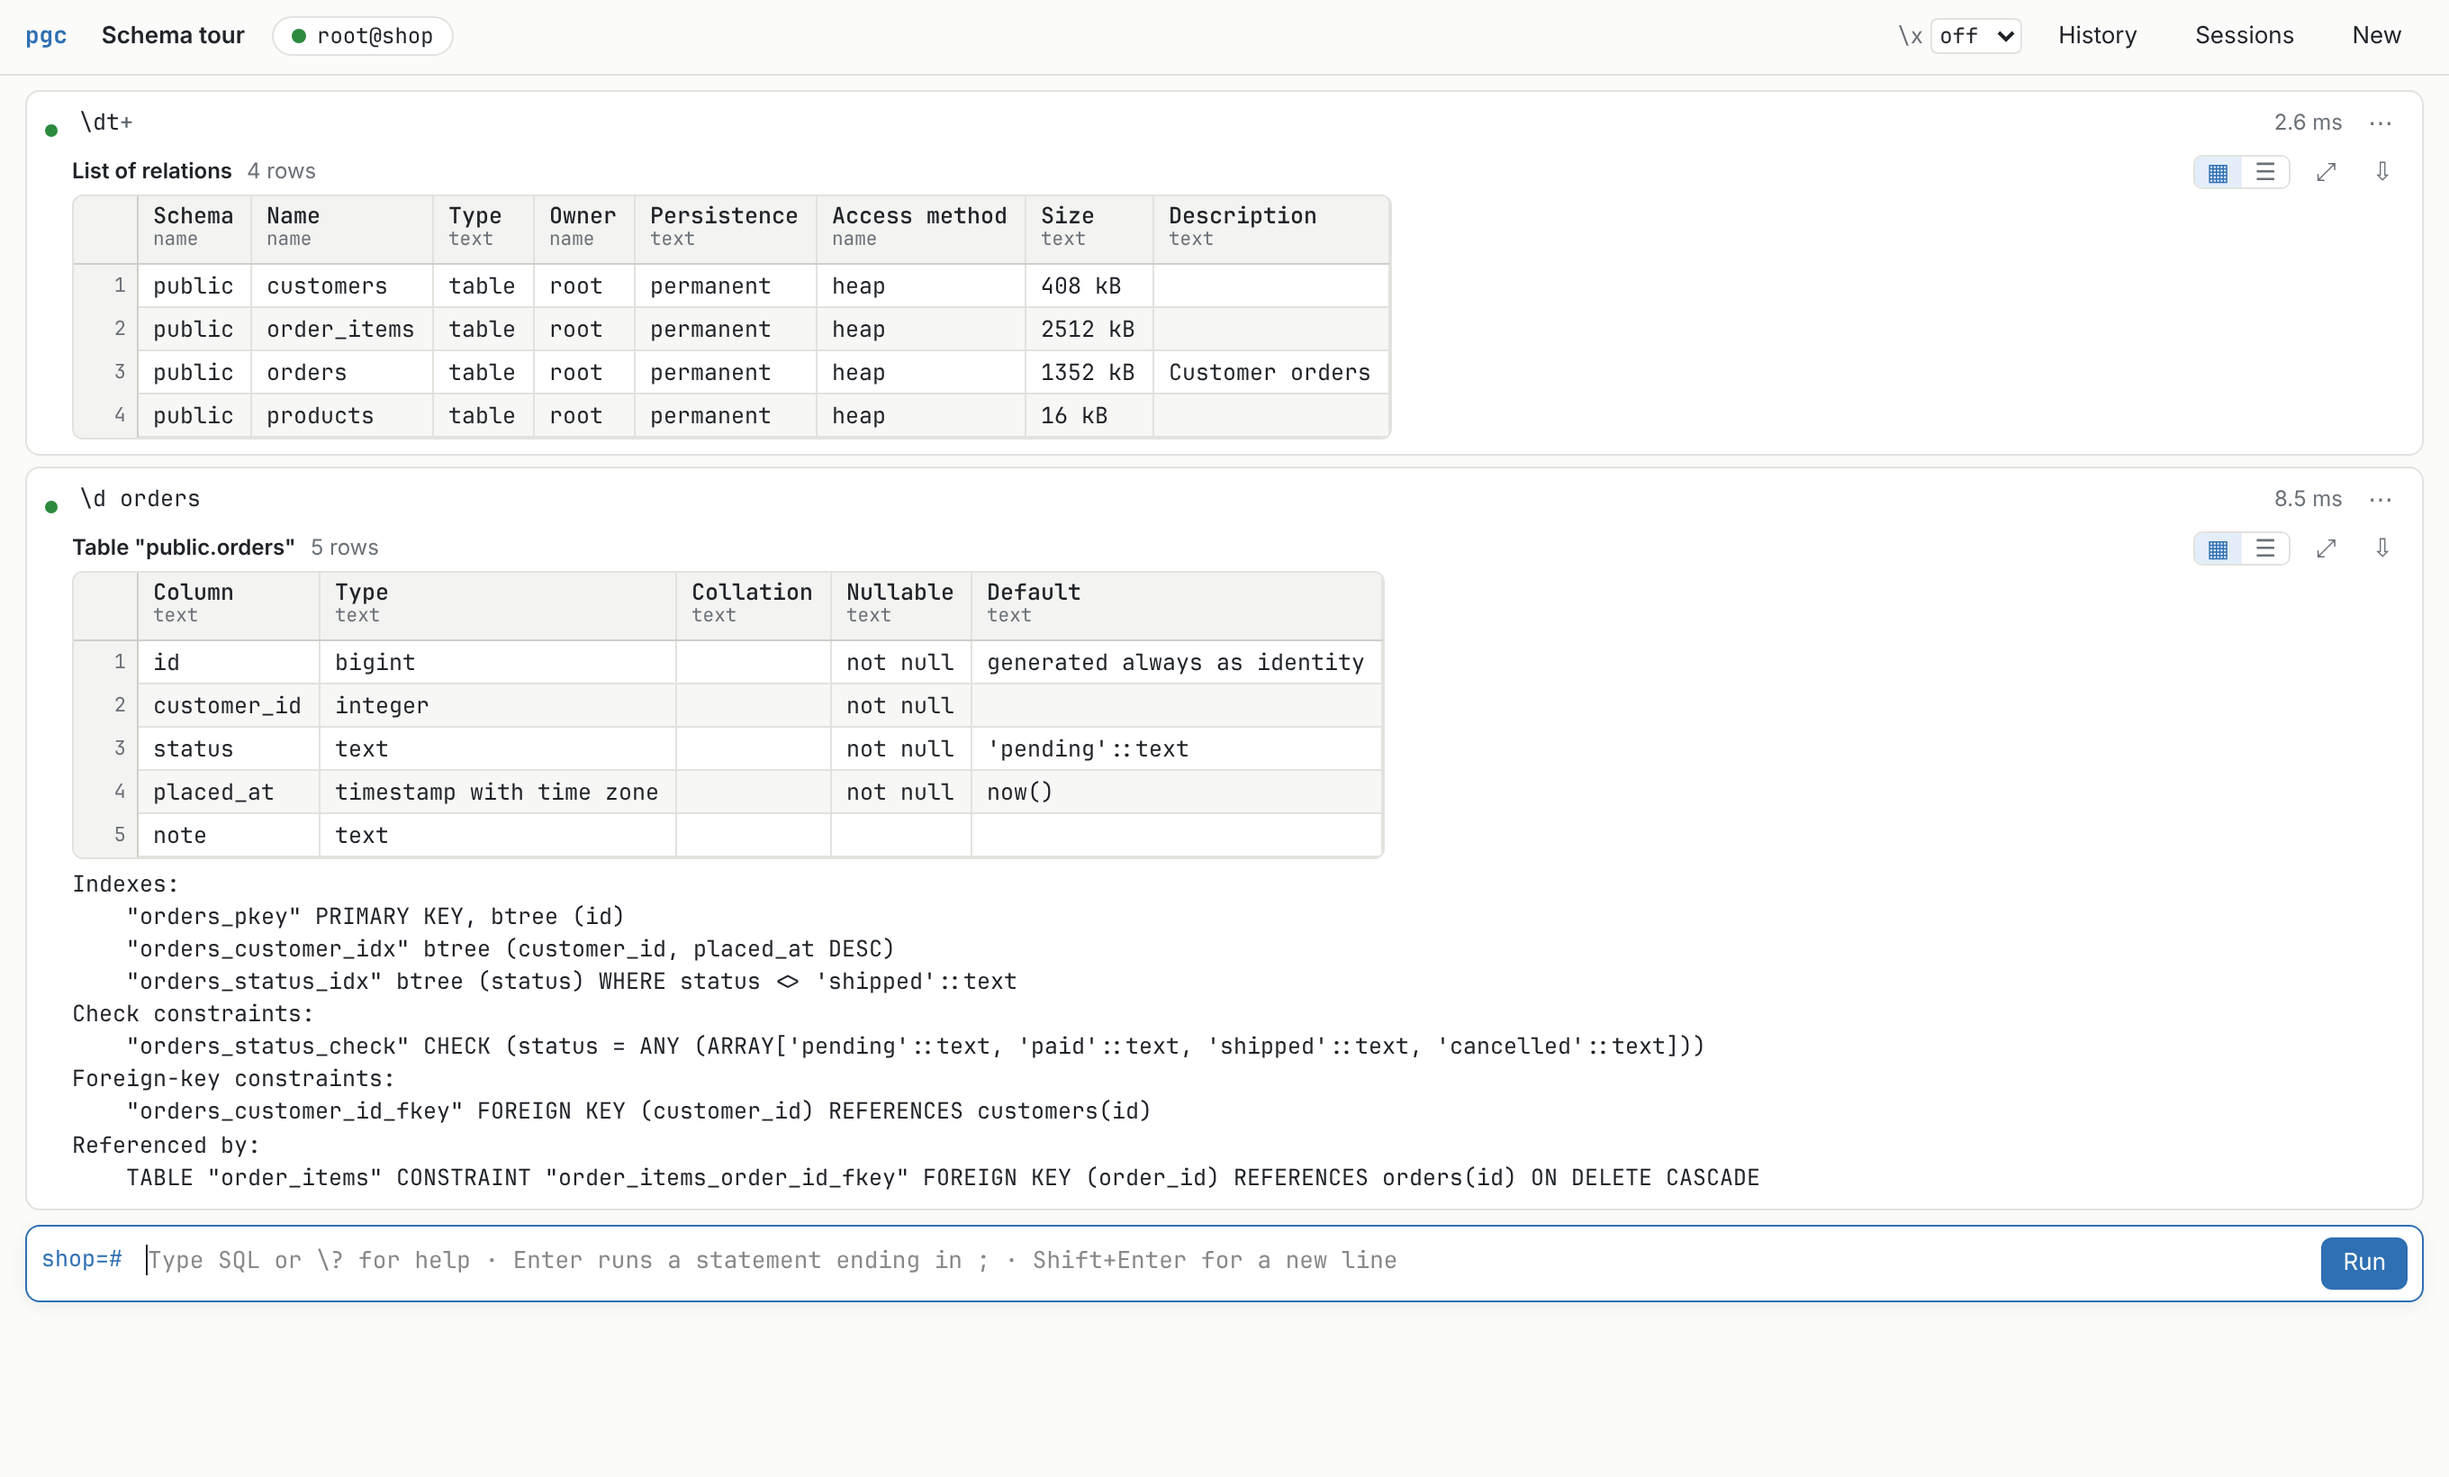
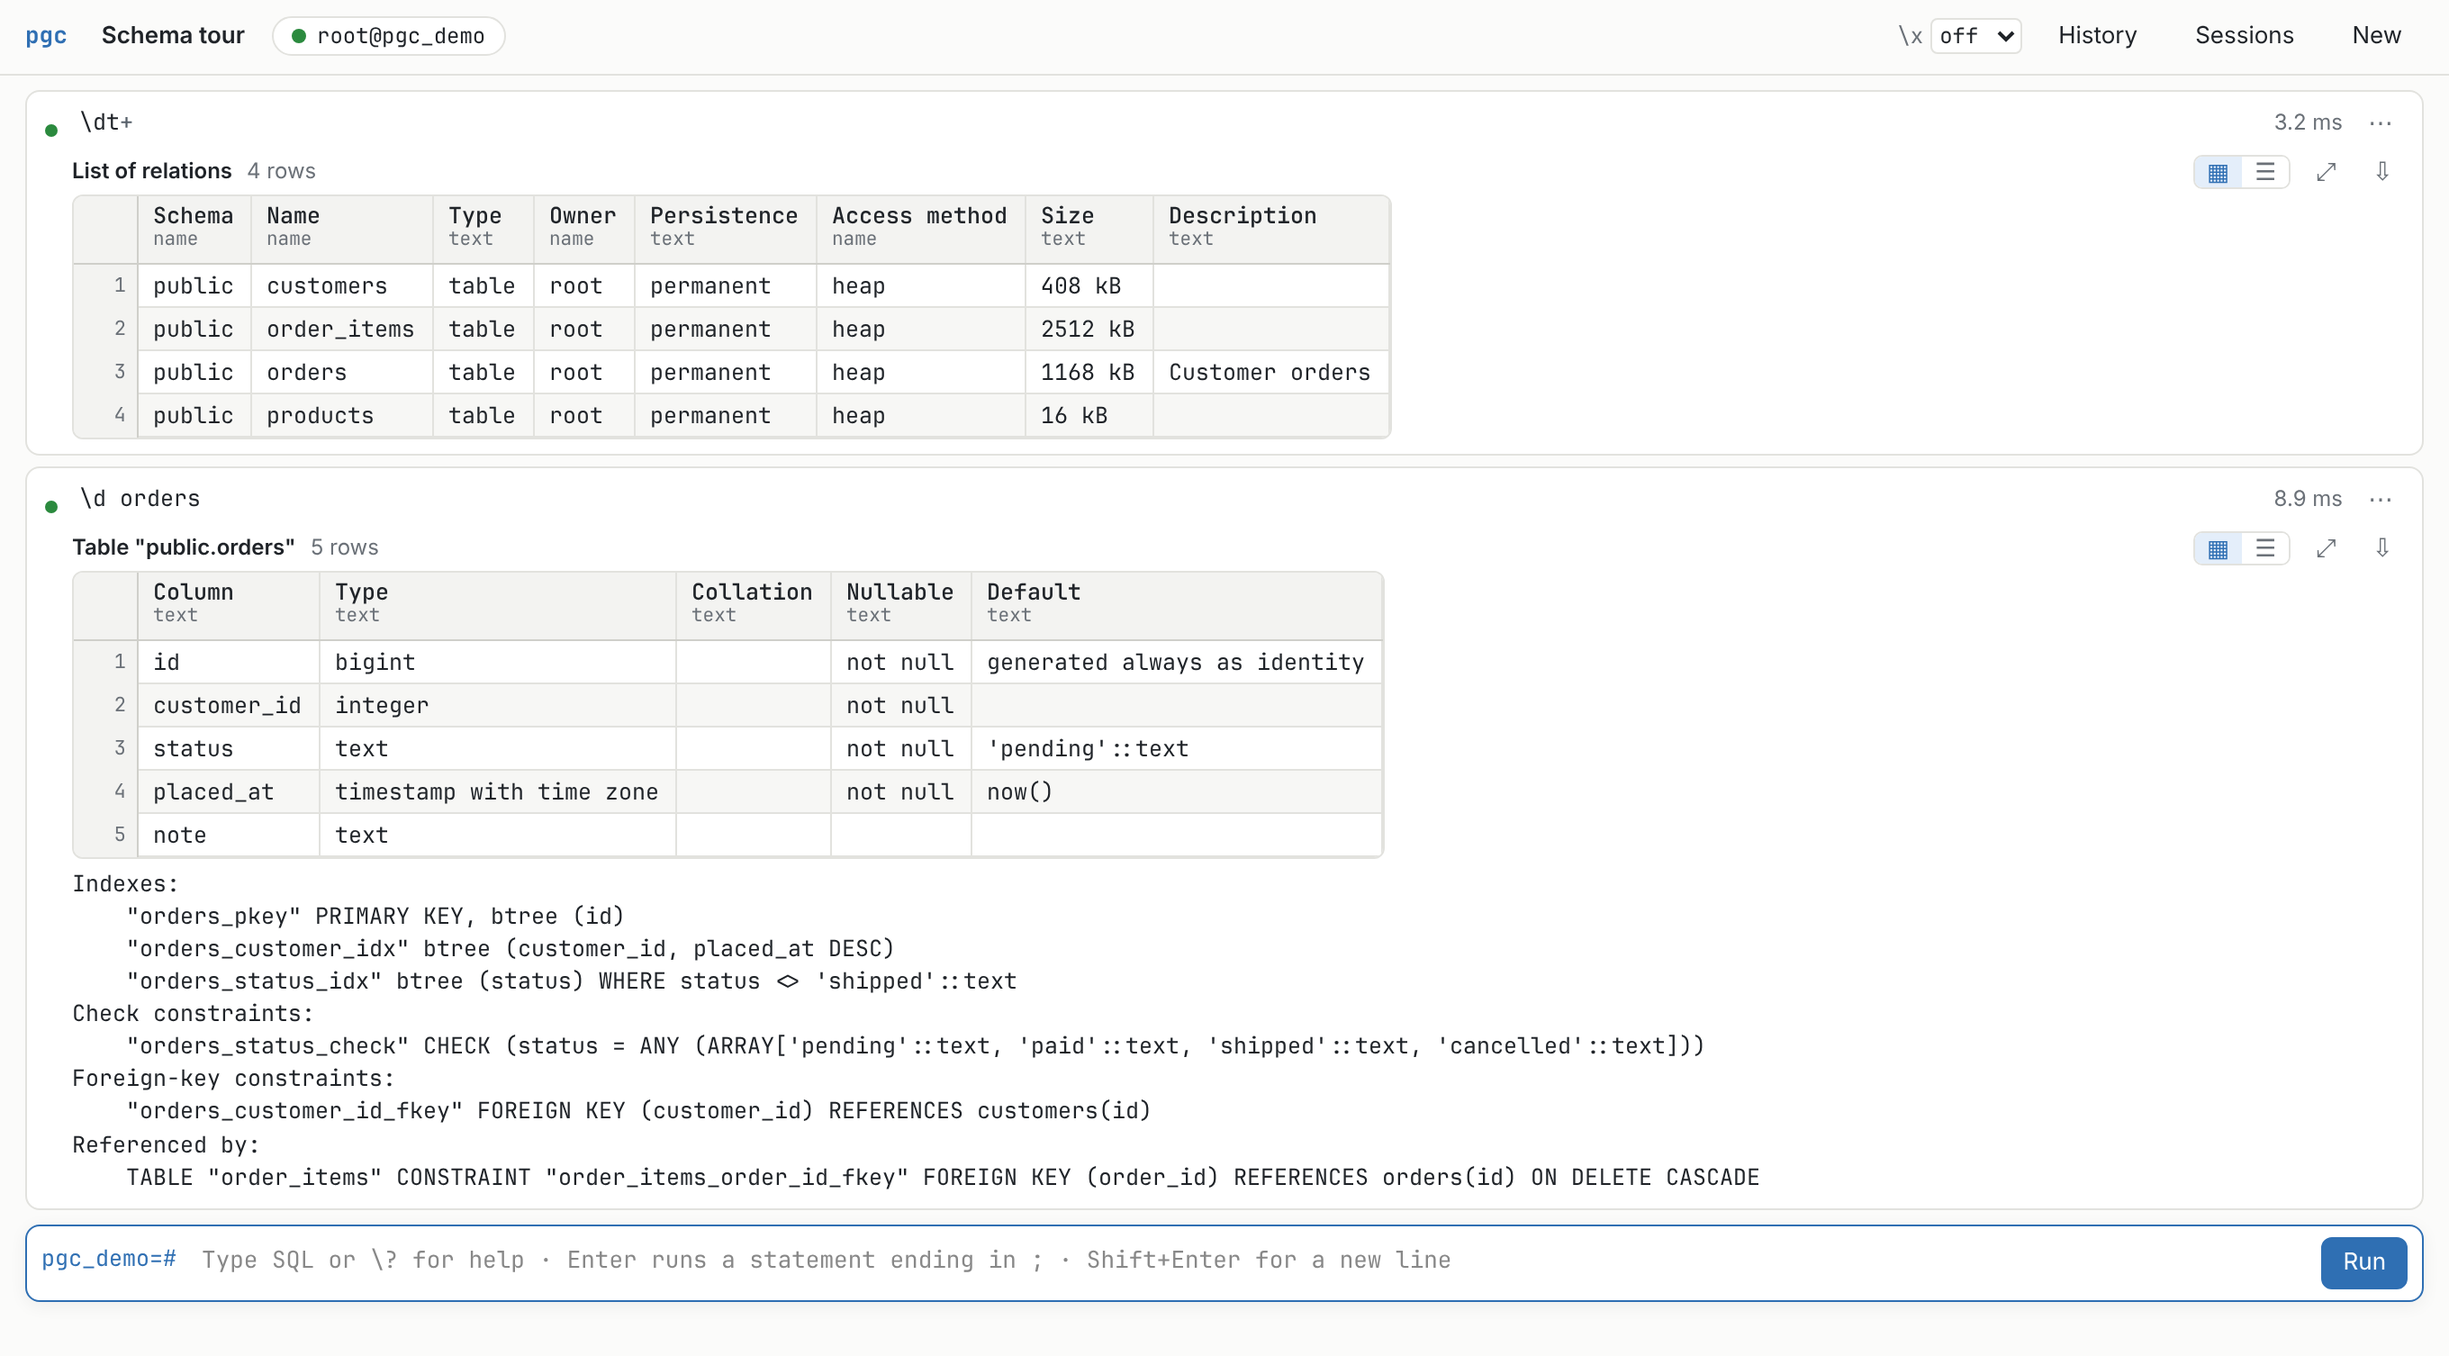
Add make screenshots to regenerate the README screenshots
tools/screenshots: a seeded demo database (demo.sql), a Playwright script
that drives a throwaway pgc and crops each shot to its content (shots.mjs),
and run.sh to tie them together. The demo database is only ever dropped if
the script created it.

Claude-Session: https://claude.ai/code/session_01XeQeur1w8LoxvbLaQDTjMm

diff --git a/README.md b/README.md
@@ -154,7 +154,14 @@ make dev     # pgc on :8765 + Vite on :5173 with hot reload
 make test    # Rust and TypeScript unit tests
 make check   # fmt, clippy, typecheck
 PGC_TEST_CONNINFO="dbname=postgres" cargo test   # also run tests against a live server
+make screenshots   # regenerate docs/screenshots
 ```
+
+`make screenshots` creates a demo database (`pgc_demo`, or `PGC_DEMO_DB`) on
+the server psql would connect to, starts a throwaway pgc against it, and drives
+it with Playwright (`tools/screenshots/`). The data is seeded, so screenshots
+only change when the UI does. On first use, install the browser with
+`cd tools/screenshots && npm ci && npx playwright install chromium`.
 
 Code map: `src/conninfo.rs` (libpq-compatible parameter resolution),
 `src/pgwire.rs` (protocol client, TLS, auth), `src/lexer.rs` (psql-style
